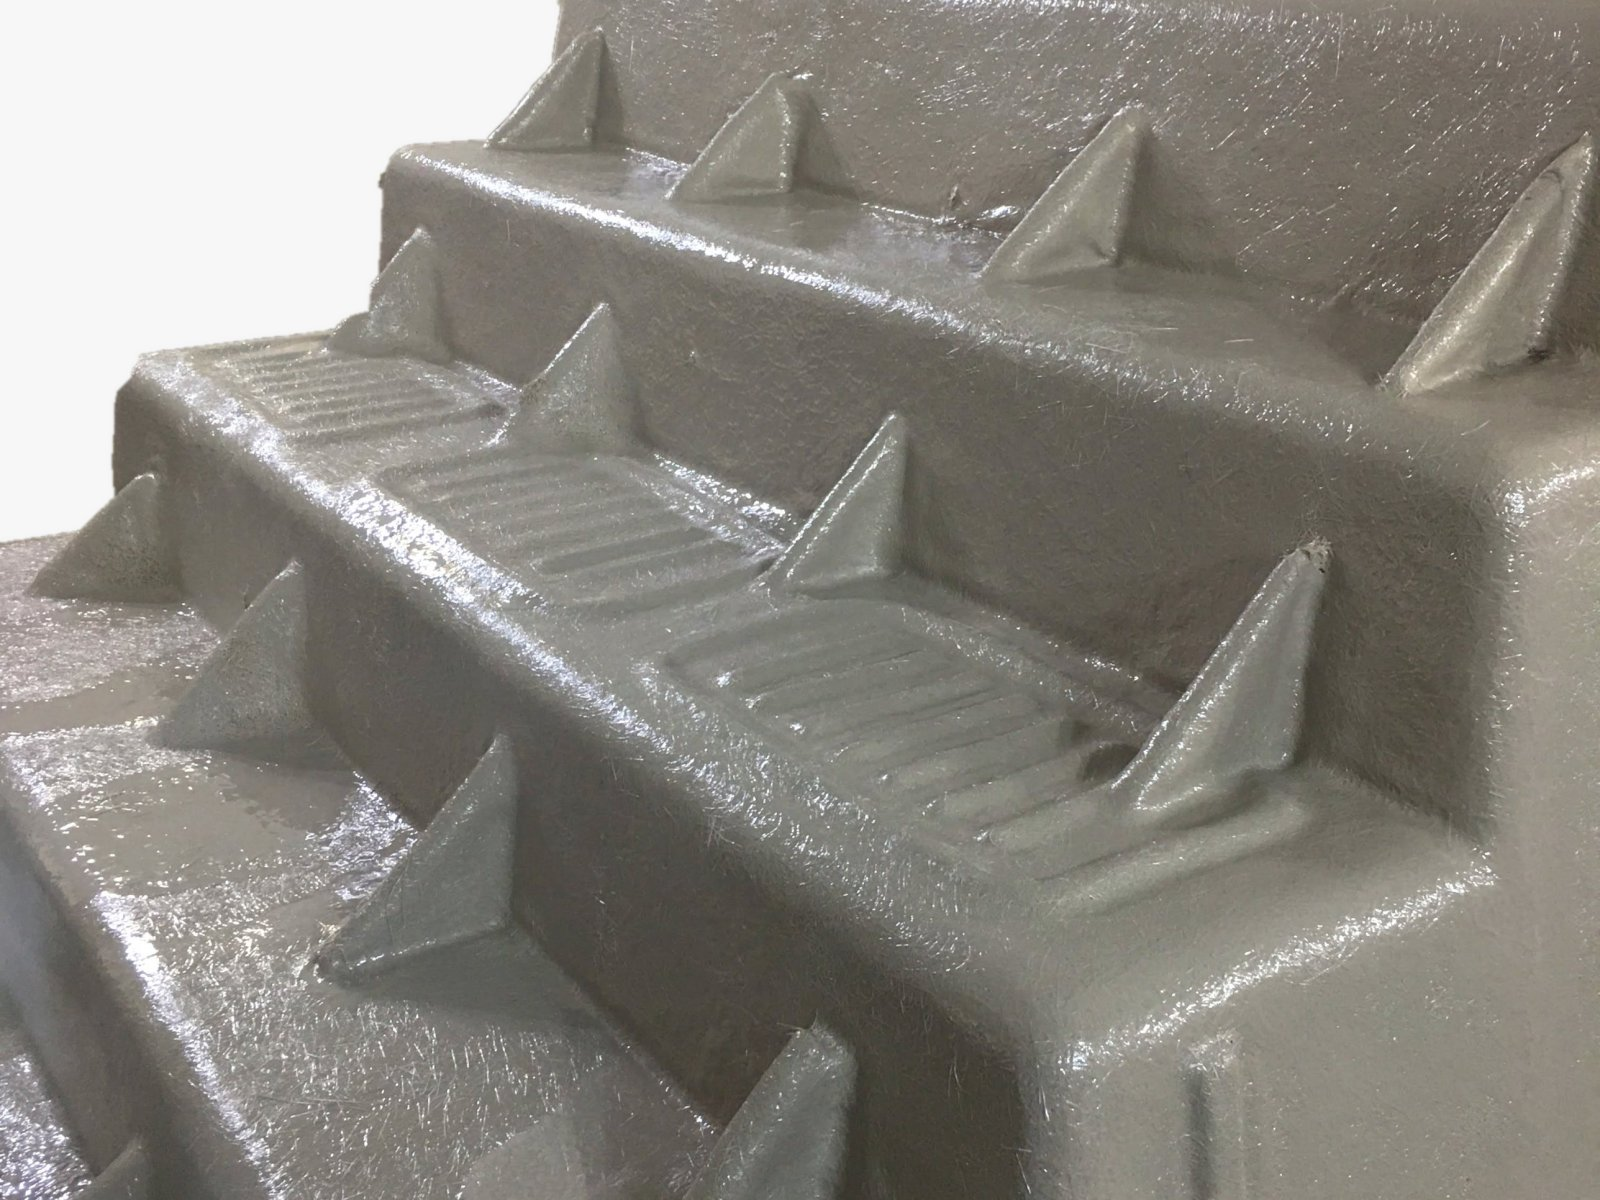
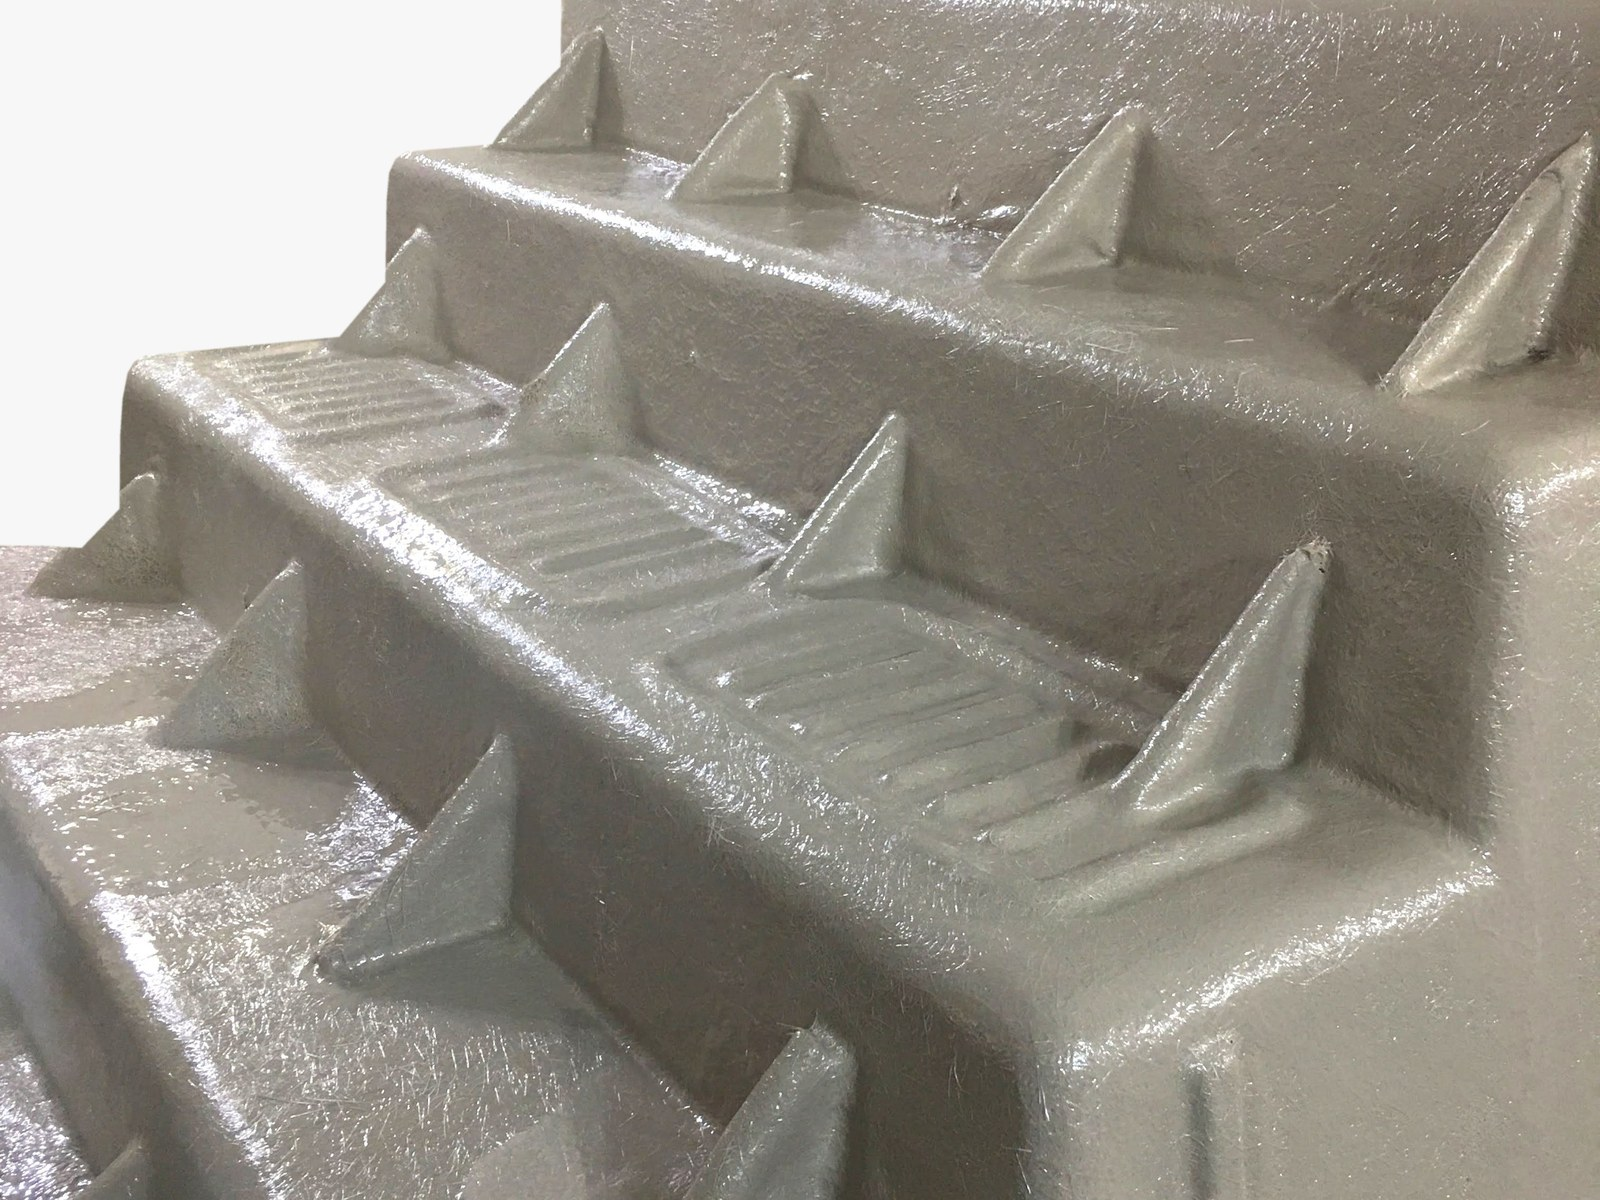
Refuerzos: nuevo recorte de la escalera. Piletas: Producto terminado en 2x2, pileta instalada 4:3 y más luminosa
Claude-Session: https://claude.ai/code/session_01638GQR5QWwYxM8MmgUFgoU

diff --git a/proyectos/piletas.html b/proyectos/piletas.html
@@ -104,11 +104,10 @@
       <figure class="tile"><img src="../assets/img/piletas/modelo-7.jpg" alt="Pileta RH de frente, parada en el patio" width="1400" height="779" loading="lazy"></figure>
       <figure class="tile"><img src="../assets/img/piletas/exterior.jpg" alt="Pileta terminada vista desde el exterior, con los nervios del laminado" width="1400" height="779" loading="lazy"></figure>
     </div>
-    <div class="g" style="grid-template-columns: 0.750fr 1.333fr">
-      <figure class="tile"><img src="../assets/img/piletas/modelo-11.jpg" alt="Pileta RH colgada del aparejo durante la carga" width="900" height="1200" loading="lazy"></figure>
+    <div class="g" style="grid-template-columns: 1fr 1fr">
       <figure class="tile"><img src="../assets/img/piletas/modelo-12.jpg" alt="Pileta RH terminada, apoyada de costado en el patio" width="1400" height="1050" loading="lazy"></figure>
+      <figure class="tile"><img src="../assets/img/piletas/instalada.jpg" alt="Pileta RH instalada en un jardín, con solado perimetral" width="1200" height="900" loading="lazy"></figure>
     </div>
-    <figure class="tile tile--narrow"><img src="../assets/img/piletas/instalada.jpg" alt="Pileta RH instalada en un jardín, con solado perimetral" width="886" height="591" loading="lazy"></figure>
   </section>
 
 
